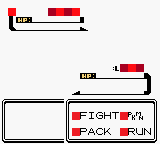
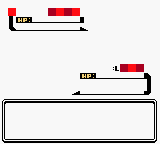
Expanded menu and move selection menu

Changed region(s): [[0.4062, 0.6667, 0.9062, 1.0], [0.75, 0.8889, 0.9688, 0.9444]]

diff --git a/states/battle.py b/states/battle.py
@@ -1,13 +1,135 @@
 import pygame, os
 from states.state import State
+from states.pause_menu import PauseMenu
+from pokemon import Pokemon
+from move import Move
 
 class Battle(State):
     def __init__(self, game):
         State.__init__(self, game)
         self.background_img = pygame.image.load(os.path.join(self.game.assets_dir, "battle1.png"))
+        self.scaled_background_img = pygame.transform.scale(self.background_img, (self.background_img.get_width() * self.game.SCALE, self.background_img.get_height() * self.game.SCALE))
+
+        #Main Menu
+        self.main_battle_menu = pygame.image.load(os.path.join(self.game.assets_dir, "main_battle_menu.png"))
+        self.scaled_main_battle_menu = pygame.transform.scale(self.main_battle_menu, (self.main_battle_menu.get_width() * self.game.SCALE, self.main_battle_menu.get_height() * self.game.SCALE))
+        self.scaled_main_battle_menu_rect = self.scaled_main_battle_menu.get_rect()
+        self.scaled_main_battle_menu_rect.x, self.scaled_main_battle_menu_rect.y = self.game.GAME_W - self.scaled_main_battle_menu.get_width(), self.game.GAME_H - self.scaled_main_battle_menu.get_height()
+
+        #Move Menu
+        self.battle_move_menu = pygame.image.load(os.path.join(self.game.assets_dir, "battle_move_menu.png"))
+        self.scaled_battle_move_menu = pygame.transform.scale(self.battle_move_menu, (self.battle_move_menu.get_width() * self.game.SCALE, self.battle_move_menu.get_height() * self.game.SCALE))
+        self.scaled_battle_move_menu_rect = self.scaled_battle_move_menu.get_rect()
+        self.scaled_battle_move_menu_rect.x, self.scaled_battle_move_menu_rect.y = self.game.GAME_W - self.scaled_battle_move_menu.get_width(), self.game.GAME_H - self.scaled_battle_move_menu.get_height()
+
+        #State data
+        self.main_battle_menu_options = {0: "Fight", 1: "Pack", 2: "Pkmn", 3: "Run"}
+        self.menu_state = 'main'
+        self.cursor_on_move = 0
+        self.selected_move = None
+        self.index = 0
+
+        #Cursor Data
+        self.cursor_img = pygame.image.load(os.path.join(self.game.assets_dir, "cursor-filled.png"))
+        self.scaled_cursor_img = pygame.transform.scale(self.cursor_img, (self.cursor_img.get_width() * self.game.SCALE, self.cursor_img.get_height() * self.game.SCALE))
+        self.cursor_rect = self.scaled_cursor_img.get_rect()
+        self.cursor_rect.x, self.cursor_rect.y = self.scaled_main_battle_menu_rect.x + (8 * self.game.SCALE), self.scaled_main_battle_menu_rect.y + (14 * self.game.SCALE)
+
+        #!Test Pokemon
+        self.bulbasaur = Pokemon("Bulbasaur")
+        self.bulbasaur.curr_xp = 2000
+        self.bulbasaur.set_level()
+        self.bulbasaur.level_up()
+        self.bulbasaur.set_moves()
+        self.bulbasaur.currentHP = self.bulbasaur.maxHP
+
+        # ivysaur = Pokemon("Ivysaur")
+        # ivysaur.curr_xp = 3000
+        # ivysaur.set_level()
+        # ivysaur.level_up()
+        # ivysaur.set_moves()
+        # ivysaur.currentHP = ivysaur.maxHP
+
+        # venusaur = Pokemon("Venusaur")
+        # venusaur.curr_xp = 1600
+        # venusaur.set_level()
+        # venusaur.level_up()
+        # venusaur.set_moves()
+        # venusaur.currentHP = venusaur.maxHP
+        #!-------------------
 
     def update(self, delta_time, actions):
-        pass
+        self.update_cursor(actions)
+        if actions['select']:
+            if self.index == 0: #fight
+                self.menu_state = 'fight'
+                self.cursor_rect.x, self.cursor_rect.y = self.scaled_battle_move_menu_rect.x + (40 * self.game.SCALE), self.scaled_battle_move_menu_rect.y + (38 * self.game.SCALE)
+            if self.index == 1: #pack
+                pass
+            if self.index == 2: #pkmn
+                pass
+            if self.index == 3: #run
+                self.game.playing = False
+                self.game.running = False
+        if actions['back']:
+            self.menu_state = 'main'
+            self.index = 0
+            self.cursor_rect.x, self.cursor_rect.y = self.scaled_main_battle_menu_rect.x + (8 * self.game.SCALE), self.scaled_main_battle_menu_rect.y + (14 * self.game.SCALE)
+        self.game.reset_keys()
 
     def render(self, display):
-        display.blit(self.background_img, (0,0))
+        display.blit(self.scaled_background_img, (0,0))
+        display.blit(self.scaled_main_battle_menu, self.scaled_main_battle_menu_rect)
+        if self.menu_state == 'main':
+            display.blit(self.scaled_cursor_img, self.cursor_rect)
+        if self.menu_state == 'fight':
+            display.blit(self.scaled_battle_move_menu, self.scaled_battle_move_menu_rect)
+            display.blit(self.scaled_cursor_img, self.cursor_rect)
+            num_moves = len(self.bulbasaur.moves)
+            for index, move in enumerate(self.bulbasaur.moves):
+                self.game.draw_text(display, move.upper(), self.game.BLACK, self.scaled_battle_move_menu_rect.x + (48*self.game.SCALE), self.scaled_battle_move_menu_rect.y + (37*self.game.SCALE) + (32*index))
+            for blank_move in range(len(self.bulbasaur.moves), 4):
+                self.game.draw_text(display, "-", self.game.BLACK, self.scaled_battle_move_menu_rect.x + (48*self.game.SCALE), self.scaled_battle_move_menu_rect.y + (37*self.game.SCALE) + (32*blank_move))
+            self.game.draw_text(display, Move(self.bulbasaur.moves[self.cursor_on_move]).get_type().upper(), self.game.BLACK, self.scaled_battle_move_menu_rect.x + (16*self.game.SCALE), self.scaled_battle_move_menu_rect.y + (13*self.game.SCALE))
+
+    def update_cursor(self, actions):
+        if self.menu_state == 'main':
+            if actions['down']:
+                if self.index == 0:
+                    self.index = 2
+                    self.cursor_rect.y = self.cursor_rect.y + (16 * self.game.SCALE)
+                if self.index == 1:
+                    self.index = 3
+                    self.cursor_rect.y = self.cursor_rect.y + (16 * self.game.SCALE)
+            if actions['up']:
+                if self.index == 2:
+                    self.index = 0
+                    self.cursor_rect.y = self.cursor_rect.y - (16 * self.game.SCALE)
+                if self.index == 3:
+                    self.index = 1
+                    self.cursor_rect.y = self.cursor_rect.y - (16 * self.game.SCALE)
+            if actions['left']:
+                if self.index == 1:
+                    self.index = 0
+                    self.cursor_rect.x = self.cursor_rect.x - (48 * self.game.SCALE)
+                if self.index == 3:
+                    self.index = 2
+                    self.cursor_rect.x = self.cursor_rect.x - (48 * self.game.SCALE)
+            if actions['right']:
+                if self.index == 0:
+                    self.index = 1
+                    self.cursor_rect.x = self.cursor_rect.x + (48 * self.game.SCALE)
+                if self.index == 2:
+                    self.index = 3
+                    self.cursor_rect.x = self.cursor_rect.x + (48 * self.game.SCALE)
+        if self.menu_state == 'fight':
+            if actions['down']:
+                if self.index < len(self.bulbasaur.moves)-1:
+                    self.index += 1
+                    self.cursor_on_move += 1
+                    self.cursor_rect.y = self.cursor_rect.y + (8 * self.game.SCALE)
+            if actions['up']:
+                if self.index > 0:
+                    self.index -= 1
+                    self.cursor_on_move -= 1
+                    self.cursor_rect.y = self.cursor_rect.y - (8 * self.game.SCALE)

diff --git a/game.py b/game.py
@@ -19,13 +19,20 @@ class Game():
             'right': False,
             'up': False,
             'down': False,
-            'start': False
+            'select': False,
+            'back': False
         }
+        self.BLACK = (0, 0, 0)
+        self.RED = (248, 0, 0)
+        self.GREEN = (0, 184, 0)
+        self.BLUE = (32, 136, 248)
+        self.YELLOW = (248, 168, 0)
+
         self.dt, self.prev_time = 0, 0
         self.state_stack = []
         self.load_assets()
         self.load_states()
-        # self.SCALE = 4
+        self.SCALE = 4
 
     def game_loop(self):
         while self.playing:
@@ -52,7 +59,9 @@ class Game():
                 if event.key == pygame.K_RIGHT:
                     self.actions['right'] = True
                 if event.key == pygame.K_RETURN:
-                    self.actions['start'] = True
+                    self.actions['select'] = True
+                if event.key == pygame.K_BACKSPACE:
+                    self.actions['back'] = True
 
             if event.type == pygame.KEYUP:
                 if event.key == pygame.K_UP:
@@ -64,7 +73,9 @@ class Game():
                 if event.key == pygame.K_RIGHT:
                     self.actions['right'] = False
                 if event.key == pygame.K_RETURN:
-                    self.actions['start'] = False
+                    self.actions['select'] = False
+                if event.key == pygame.K_BACKSPACE:
+                    self.actions['back'] = False
 
     def update(self):
         self.state_stack[-1].update(self.dt, self.actions)
@@ -80,16 +91,16 @@ class Game():
         self.prev_time = now
 
     def draw_text(self, surface, text, colour, x, y):
-        text_surface = self.font.render(text, True, colour)
+        text_surface = self.font.render(text, False, colour)
         text_rect = text_surface.get_rect()
-        text_rect.center = (x, y)
+        text_rect = (x, y)
         surface.blit(text_surface, text_rect)
 
     def load_assets(self):
         self.assets_dir = os.path.join("assets")
         self.images_dir = os.path.join(self.assets_dir, "images")
         self.font_dir = os.path.join(self.assets_dir, "font")
-        self.font = pygame.font.Font(os.path.join(self.font_dir, "pokemon_generation_1.ttf"), 34)
+        self.font = pygame.font.Font(os.path.join(self.font_dir, "pokemon_generation_1.ttf"), 32)
 
     def load_states(self):
         self.title_screen = Title(self)

diff --git a/move.py b/move.py
@@ -1,6 +1,5 @@
 from settings import load_json
 import pokemon
-import battle
 import random
 
 type_dict = load_json("typeDB")
@@ -26,6 +25,9 @@ class Move:
 
     def get_priority(self):
         return self.priority
+
+    def get_type(self):
+        return self.type
 
     def paralyzed(self, defender):
         '''
@@ -169,7 +171,6 @@ class Move:
         '''
         Checks if move applies any status effect to defending pokemon
         '''
-        print("In apply_effects")#!-----------------------------------
         chance = random.randint(0, 101)
         if chance < move_dict[self.name]["Effect-Rate"]:
             if move_dict[self.name]["Effect"] == "Paralyzed":
@@ -198,9 +199,9 @@ class Move:
         calls a move.
         runs status effect check, if applicable. then applies damage, if applicable
         '''
-        Move.apply_effects(self, defender)
+        if move_dict[self.name]["Effect"] != "":
+            Move.apply_effects(self, defender)
         damage = Move.calc_damage(self, attacker, defender)
-        print(damage) #!-----------------------------
         defender.currentHP -= damage
 
     def learn(self, pokemon):

diff --git a/states/title.py b/states/title.py
@@ -1,16 +1,18 @@
 from states.state import State
 from states.battle import Battle
+from states.pallet_town import Pallet_Town
+from states.pause_menu import PauseMenu
 
 class Title(State):
     def __init__(self, game):
-        State.__init__(self, game)
+        super().__init__(game)
 
     def update(self, delta_time, actions):
-        if actions["start"]:
+        if actions["select"]:
             new_state = Battle(self.game)
             new_state.enter_state()
         self.game.reset_keys()
 
     def render(self, display):
         display.fill((255,255,255))
-        self.game.draw_text(display, "Game States Demo", (0,0,0), self.game.GAME_W/2, self.game.GAME_H/2)
+        self.game.draw_text(display, "Pykemon", (0,0,0), self.game.GAME_W*0.35, self.game.GAME_H/2)

diff --git a/states/pause_menu.py b/states/pause_menu.py
@@ -1,0 +1,20 @@
+import pygame, os
+from states.state import State
+
+class PauseMenu(State):
+    def __init__(self, game):
+        self.game = game
+        super().__init__(game)
+        #Set the menu
+        self.menu_img = pygame.image.load(os.path.join(self.game.assets_dir, "Pause_Menu.png"))
+        self.menu_rect = self.menu_img.get_rect()
+        self.menu_rect.center = (self.game.GAME_W*.85, self.game.GAME_H*.4)
+
+    def update(self, delta_time, actions):
+        if actions["back"]:
+            self.exit_state()
+        self.game.reset_keys()
+
+    def render(self,display):
+        self.prev_state.render(display)
+        display.blit(self.menu_img, self.menu_rect)

diff --git a/battle.py b/battle.py
@@ -83,8 +83,5 @@ class Battle:
                 break
 
     def end_fight(self, attacker, defender):
-        print(f"{defender.name} fainted!") #!----------------------------------
-        print(f"previous xp: {attacker.curr_xp}") #!----------------------------
         xp = attacker.exp_gained(defender)
         attacker.curr_xp += xp
-        print(f"current xp: {attacker.curr_xp}") #!----------------------------

diff --git a/states/pallet_town.py b/states/pallet_town.py
@@ -1,0 +1,14 @@
+import pygame, os
+from states.state import State
+
+class Pallet_Town(State):
+    def __init__(self, game):
+        super().__init__(game)
+        self.background_img = pygame.image.load(os.path.join(self.game.assets_dir, "pallet_town.png"))
+
+    def update(self, delta_time, actions):
+        pass
+
+    def render(self, display):
+        display.blit(self.background_img, (0,0))
+    

diff --git a/main.py b/main.py
@@ -34,10 +34,12 @@ bulbasaur.curr_xp = 2000
 bulbasaur.set_level()
 bulbasaur.level_up()
 bulbasaur.set_moves()
+num_moves = len(bulbasaur.moves)
+print(num_moves)
 bulbasaur.currentHP = bulbasaur.maxHP
 
 ivysaur = Pokemon("Ivysaur")
-ivysaur.curr_xp = 2000
+ivysaur.curr_xp = 3000
 ivysaur.set_level()
 ivysaur.level_up()
 ivysaur.set_moves()

diff --git a/type.py b/type.py
@@ -1,2 +1,5 @@
 class Type:
     pass
+
+rect = (100, 200)
+print(rect[0])
